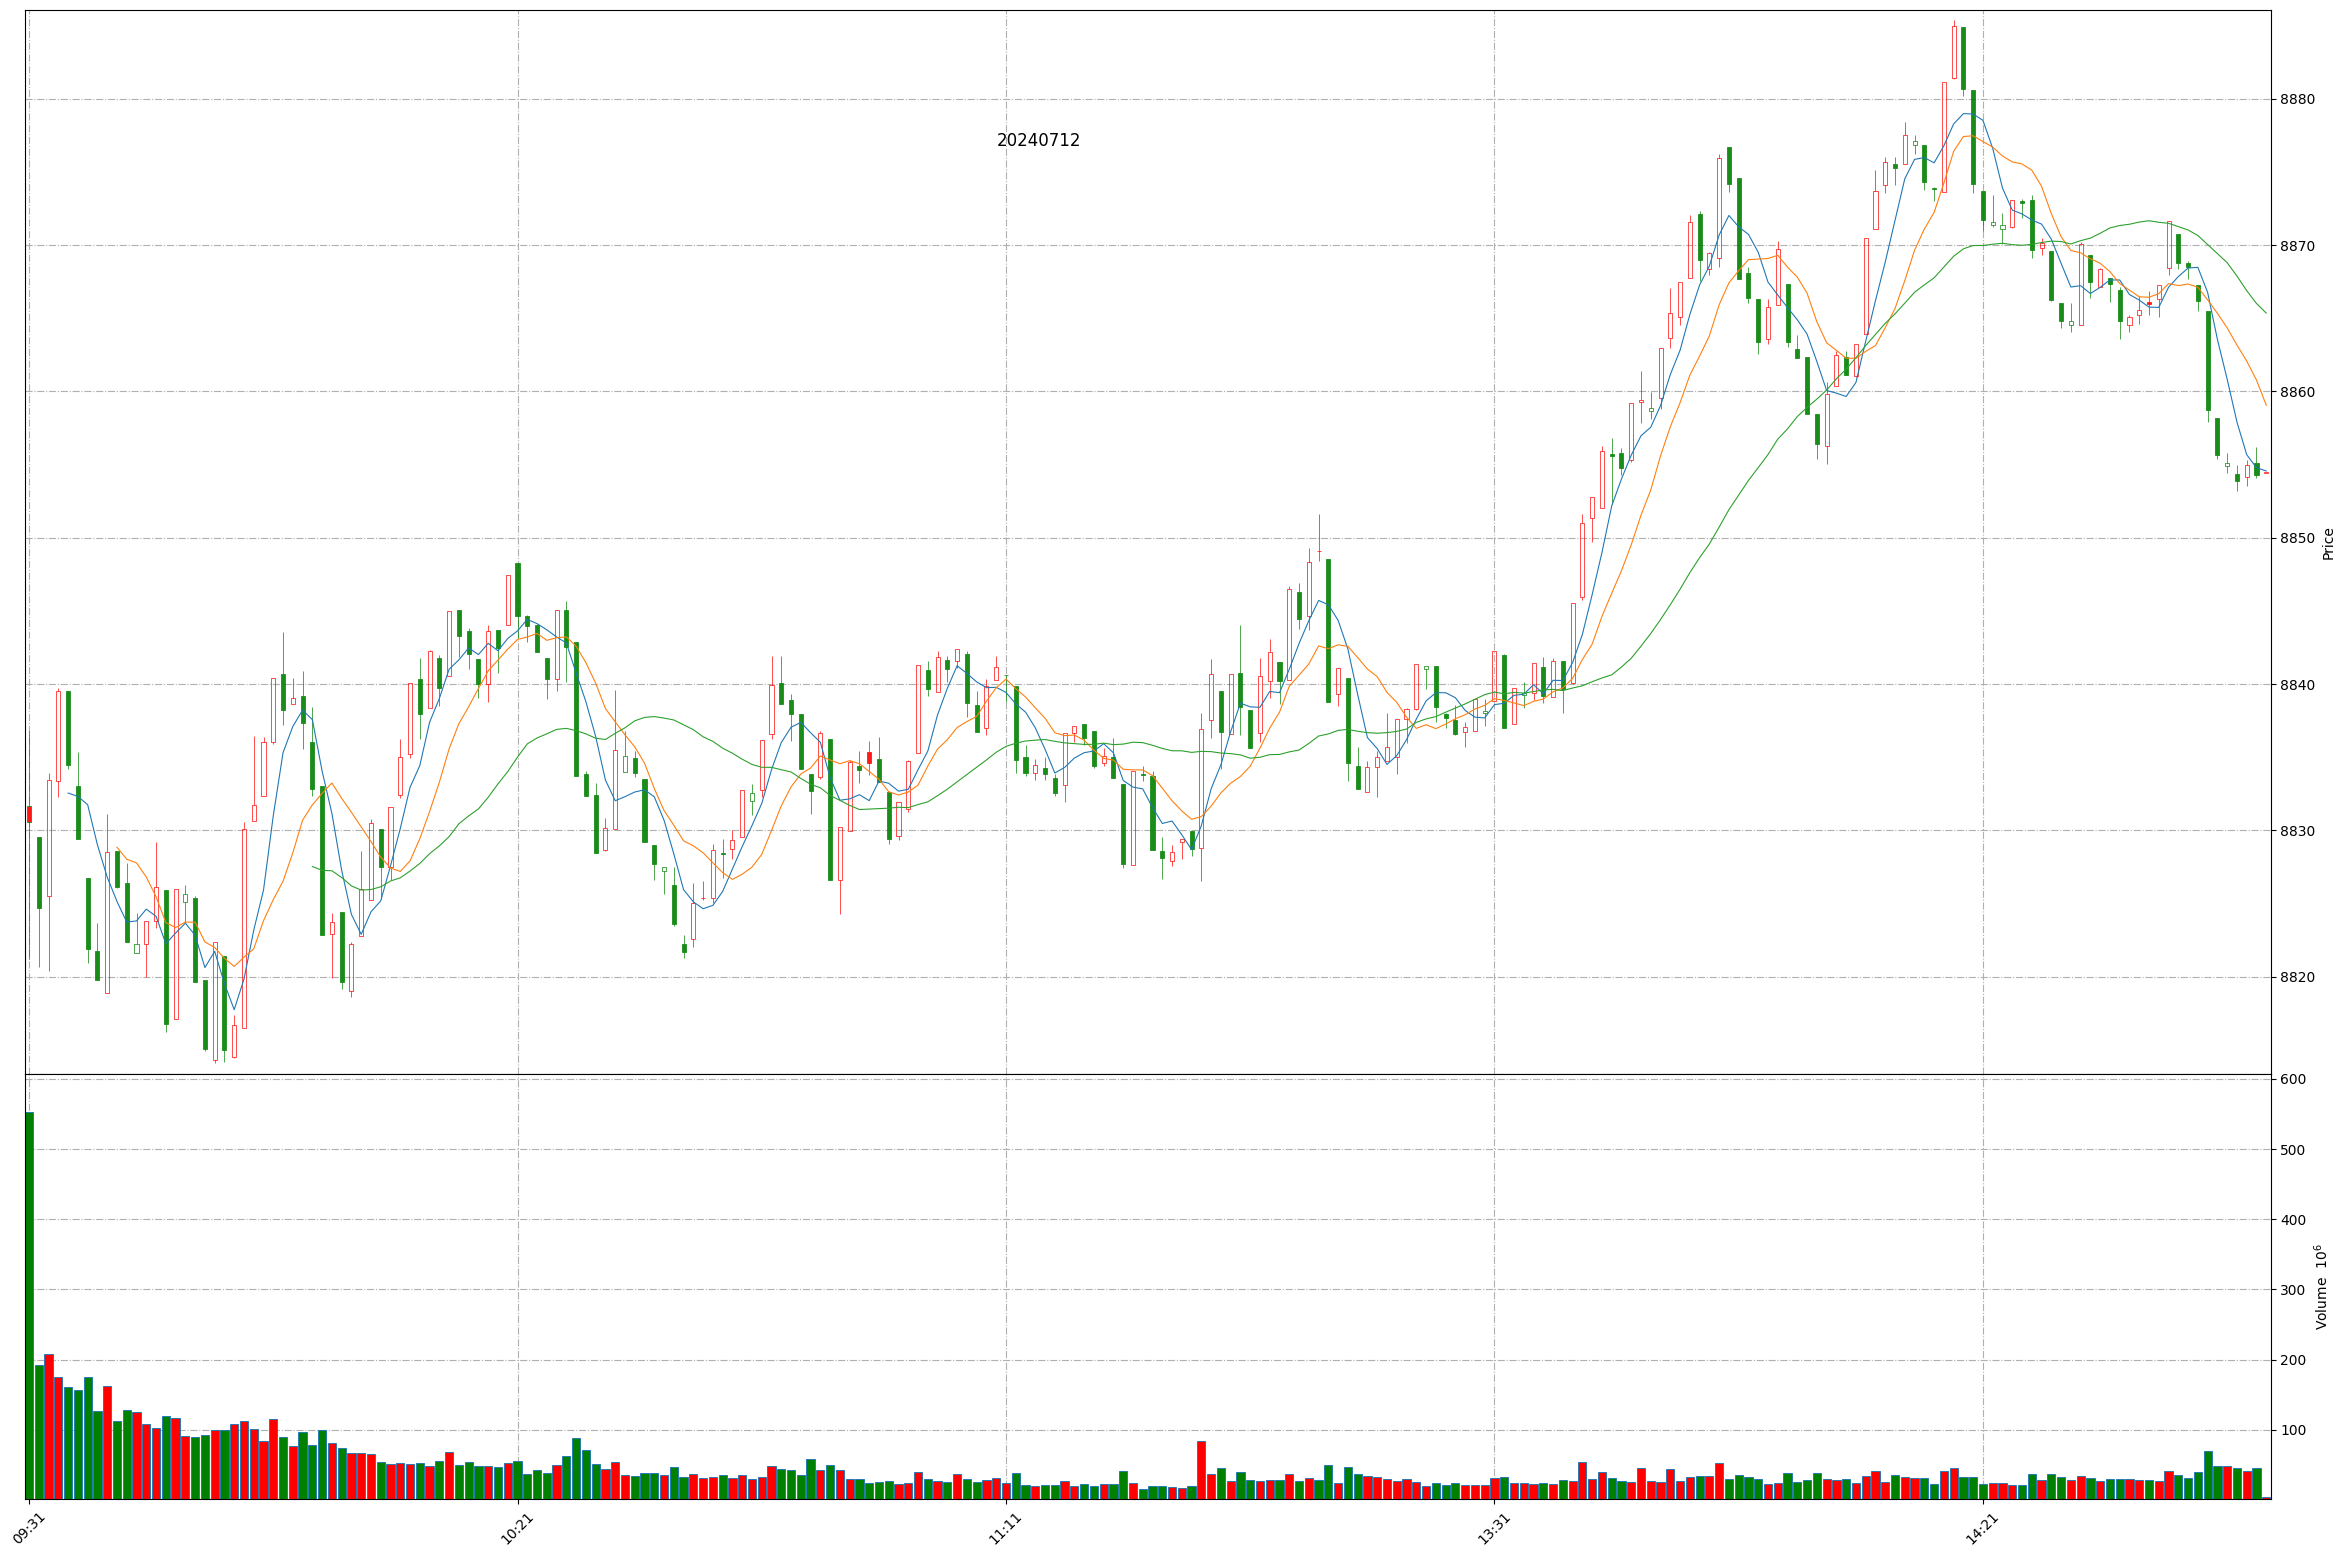
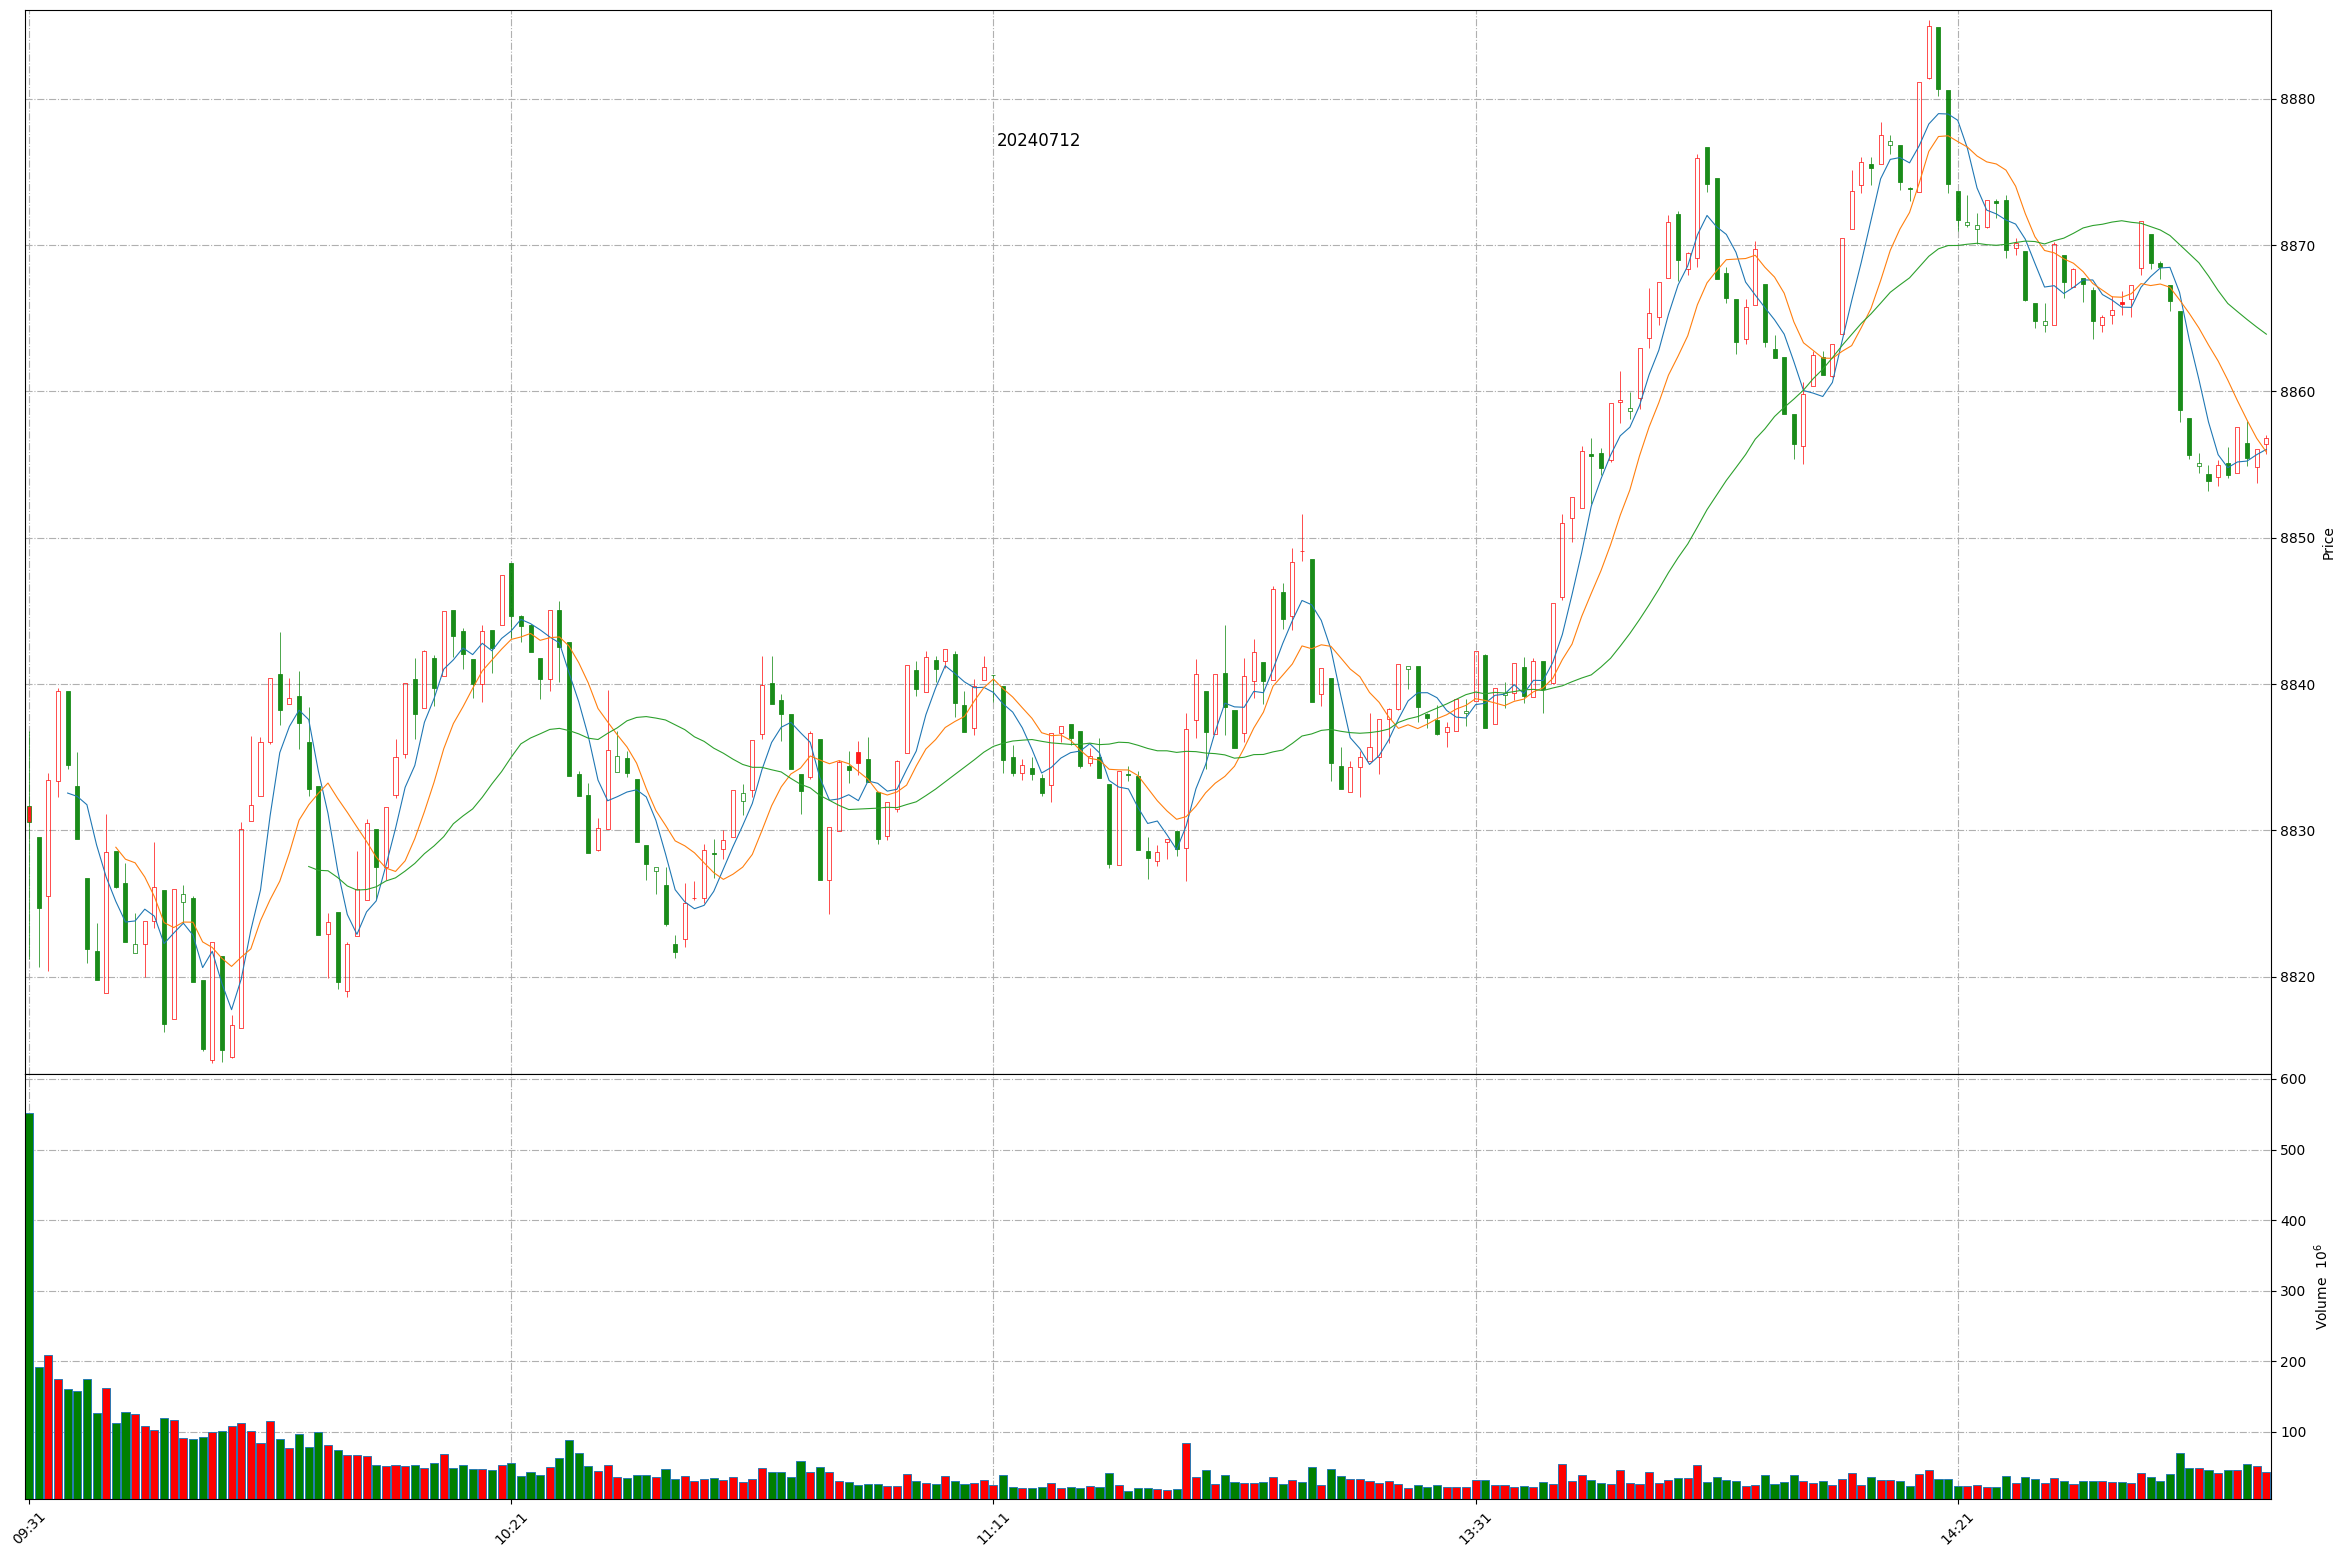
Github action update at 2024-07-12 14:53:02.

diff --git a/README.md b/README.md
@@ -1,11 +1,11 @@
 
 # Daily-A-share-market-quotes 每日 A 股指数（5min 更新）- 20240712
 
-### 上证指数 20240712 14:49
+### 上证指数 20240712 14:53
 ![](./fig/2024/7/20240712-sh000001.png)
 
-### 深证成指 20240712 14:49
+### 深证成指 20240712 14:53
 ![](./fig/2024/7/20240712-sz399001.png)
 
-### 北证50 20240712 14:49
+### 北证50 20240712 14:53
 ![](./fig/2024/7/20240712-bj899050.png)
